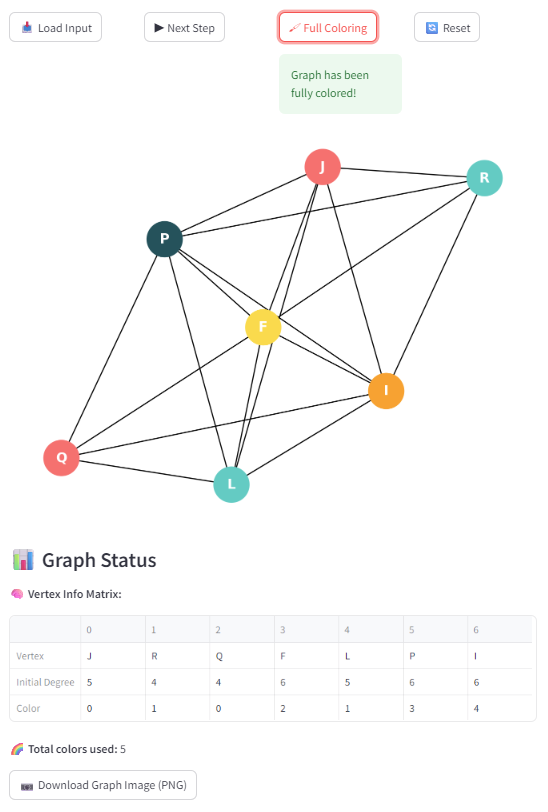
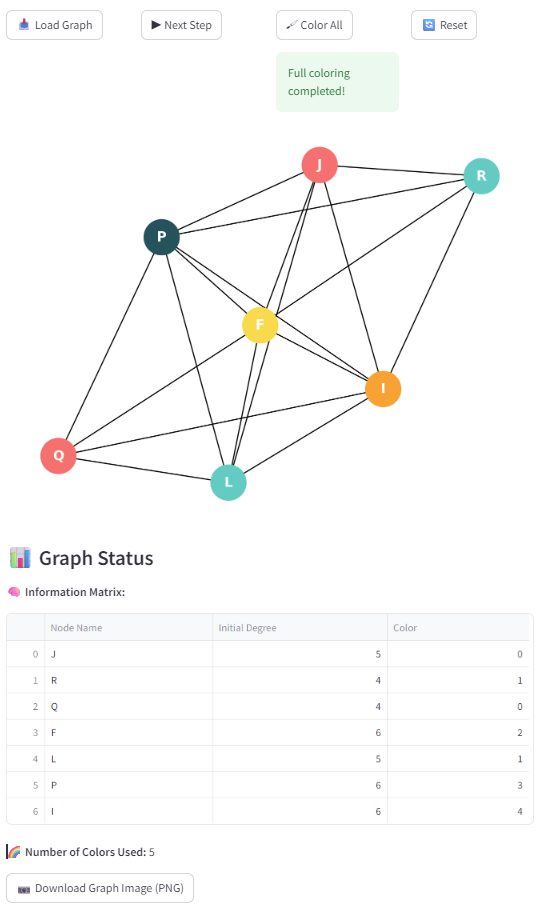
Add English versions of  ui_result.png and change dataframe in app_english.py

diff --git a/app_english.py b/app_english.py
@@ -18,7 +18,7 @@ def init_session():
     if "input_text" not in st.session_state:
         st.session_state.input_text = ""
 
-# --- Reset the entire session ---
+# --- Reset session state ---
 def reset_all():
     st.session_state.clear()
 
@@ -34,39 +34,39 @@ def handle_input():
         g.load_graph(v, e, names, edge_list)
         st.success("Graph loaded successfully!")
     except Exception as ex:
-        st.error(f"Error while parsing input: {ex}")
+        st.error(f"Error reading input: {ex}")
 
-# --- Color the next vertex ---
+# --- Perform one coloring step ---
 def step_coloring():
     g = st.session_state.graph
     changed = g.step_one_vertex()
     if not changed:
-        st.info("Graph is fully colored!")
+        st.info("Coloring completed!")
 
-# --- Color all vertices ---
+# --- Perform full coloring ---
 def full_coloring():
     g = st.session_state.graph
     while g.step_one_vertex():
         pass
-    st.success("Graph has been fully colored!")
+    st.success("Full coloring completed!")
 
 # --- Main UI ---
 def main():
     st.set_page_config(page_title="Graph Coloring", layout="centered")
-    st.title("🎨 Graph Coloring using Greedy Heuristic")
+    st.title("🎨 Graph Coloring using Heuristic Strategy")
 
     st.markdown("""
-    ### 📘 Problem Statement
-    Given an undirected simple graph, color the vertices using a **GREEDY ALGORITHM** so that no adjacent vertices have the same color and the total number of colors used is minimized.  
-    Colors are represented using 24-bit RGB values, ranging from `0` (black `#000000`) to `16777215` (white `#FFFFFF`).
+    ### 📘 Problem Description
+    Given an undirected simple graph, color the vertices using a **Greedy Algorithm** such that adjacent vertices have different colors and the total number of colors used is minimized.
+    Colors are represented using 24-bit RGB values ranging from `0` (black `#000000`) to `16777215` (white `#FFFFFF`).
 
     #### 🔽 INPUT:
-    - First line: two integers `v` and `e`, the number of vertices and edges.
-    - Second line: `v` vertex names.
-    - Next `e` lines: each contains two vertex names indicating an edge.
+    - First line: two integers `v` (number of vertices) and `e` (number of edges).
+    - Second line: `v` strings representing vertex names.
+    - Next `e` lines: each line contains two vertex names connected by an edge.
 
     #### 🔼 OUTPUT:
-    - A single line of `v` integers — colors assigned to each vertex in the same order as the input.
+    - A line with `v` integers — the color assigned to each vertex in input order.
 
     #### 📌 Example:
     ```
@@ -100,17 +100,20 @@ def main():
     init_session()
     g = st.session_state.graph
 
-    st.subheader("📥 Input Graph Data")
+    st.subheader("📥 Enter your input")
 
-    st.markdown("""
-    📂 [**View sample test cases** here](https://github.com/KhoiBui16/Graph_Coloring_Heuristic/tree/main/test_case)
-    """, unsafe_allow_html=True)
+    st.markdown(
+    """
+    📂 [**Sample test cases here**](https://github.com/KhoiBui16/Graph_Coloring_Heuristic/tree/main/test_case)
+    """,
+    unsafe_allow_html=True
+    )
 
     st.text_area(
-        "Graph Input",
+        "Full input",
         key="input_text",
         height=150,
-        placeholder="Enter the input in the format shown above...",
+        placeholder="Enter your input data as described...",
     )
 
     st.markdown("""
@@ -126,7 +129,7 @@ def main():
     col1, col2, col3, col4 = st.columns([1, 1, 1, 1])
 
     with col1:
-        if st.button("📥 Load Input"):
+        if st.button("📥 Load Graph"):
             handle_input()
 
     with col2:
@@ -134,7 +137,7 @@ def main():
             step_coloring()
 
     with col3:
-        if st.button("🖌 Full Coloring"):
+        if st.button("🖌 Color All"):
             full_coloring()
 
     with col4:
@@ -147,13 +150,13 @@ def main():
         st.pyplot(fig)
         st.subheader("📊 Graph Status")
 
-        st.write("**🧠 Vertex Info Matrix:**")
+        st.write("**🧠 Information Matrix:**")
         degree_list = [len(g.adjList[i]) for i in range(g.v)]
         df = pd.DataFrame([
-            g.nodeNames,
-            degree_list,
-            g.colors
-        ], index=["Vertex", "Initial Degree", "Color"])
+            list(map(str, g.nodeNames)),
+            list(map(int, degree_list)),
+            list(map(int, g.colors))
+        ], index=["Node Name", "Initial Degree", "Color"]).T
 
         st.dataframe(df.style.set_properties(**{'text-align': 'center'}).set_table_styles([{
             'selector': 'th',
@@ -164,9 +167,9 @@ def main():
         }]), use_container_width=True)
 
         used_colors = set(c for c in g.colors if c != -1)
-        st.write(f"**🌈 Total colors used:** {len(used_colors)}")
+        st.write(f"**🌈 Number of Colors Used:** {len(used_colors)}")
 
-        if st.download_button("📷 Download Graph Image (PNG)", data=fig_to_bytes(fig), file_name="colored_graph.png", mime="image/png"):
+        if st.download_button("📷 Download Graph Image (PNG)", data=fig_to_bytes(fig), file_name="graph_colored.png", mime="image/png"):
             st.success("Image downloaded successfully!")
 
 # Run the app
